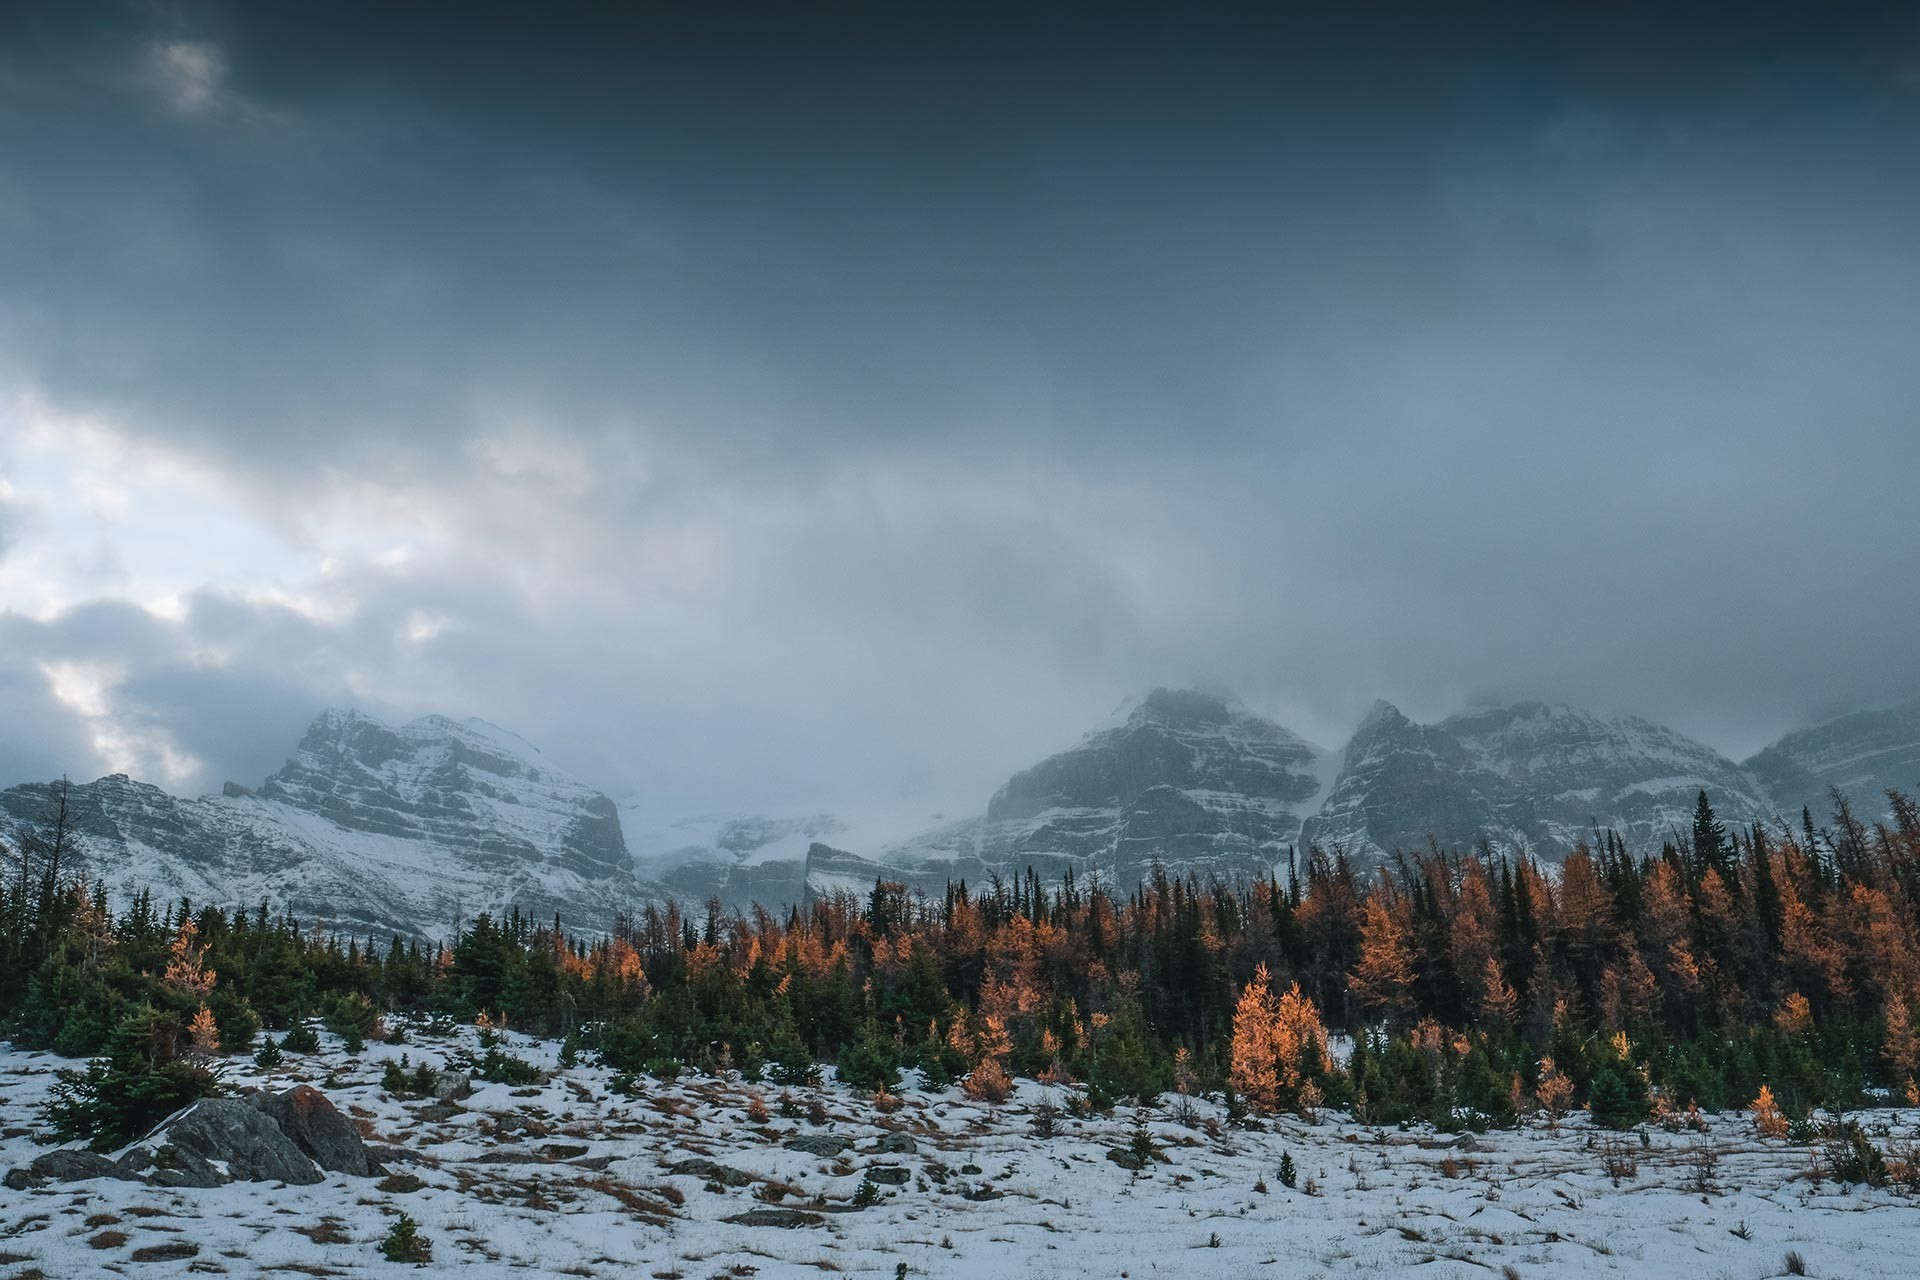
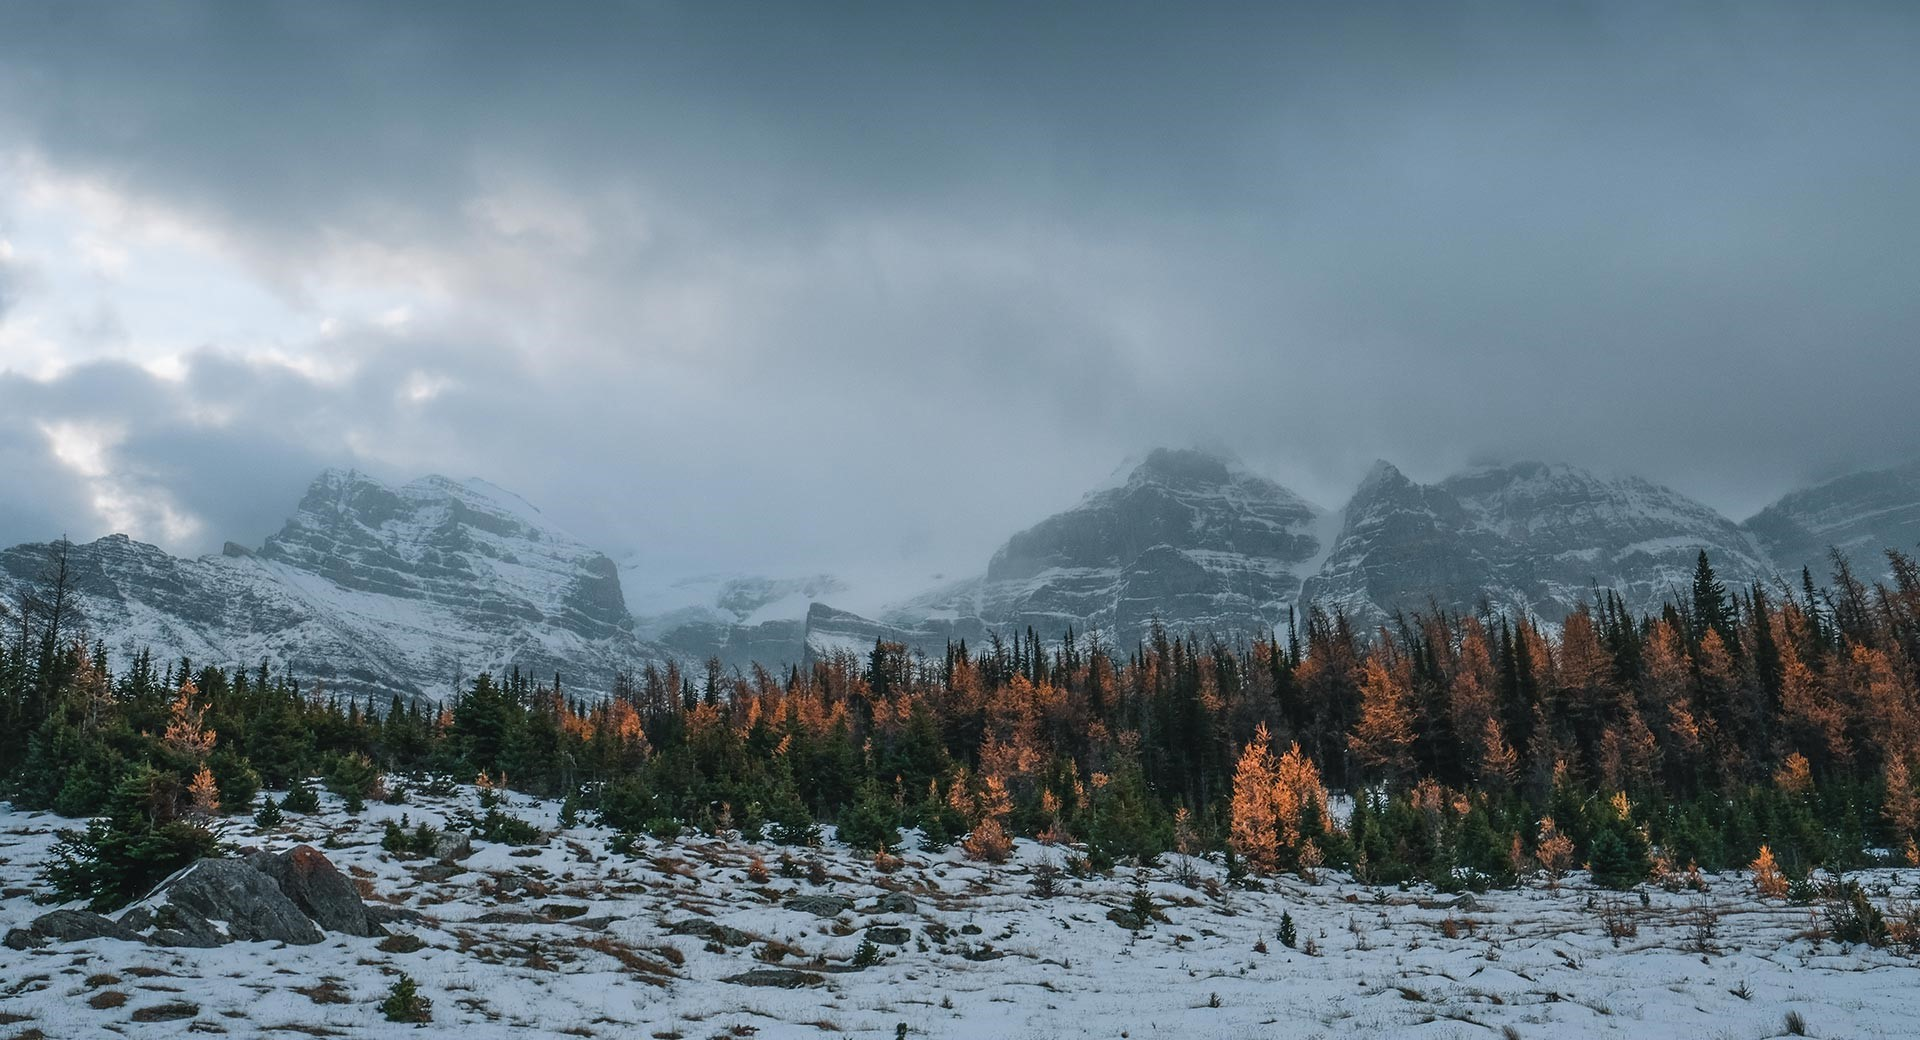
fix background image

diff --git a/index.css b/index.css
@@ -20,13 +20,6 @@ body {
 }
 
 
-/* change position of image */
-@media screen and (min-width: 1490px) {
-    #main {
-        background-position-y: -250px;
-    }
-}
-
 #main-section h1 {
 
     text-align: center;
@@ -240,14 +233,13 @@ nav {
 
 }
 
-
-
 #scroll-down {
     position: absolute;
     margin: 0 auto;
     left: 0;
     right: 0;
     bottom: 20px;
+    filter: drop-shadow( 0px 2px 6px white);
 }
 
 #scroll-down:hover {

diff --git a/index.html b/index.html
@@ -81,11 +81,9 @@
           .st2 {
             opacity: 0.31;
           }
-
           .st0 {
             opacity: 0.64;
           }
-
           .st1 {
             fill: #FFFFFF;
           }
